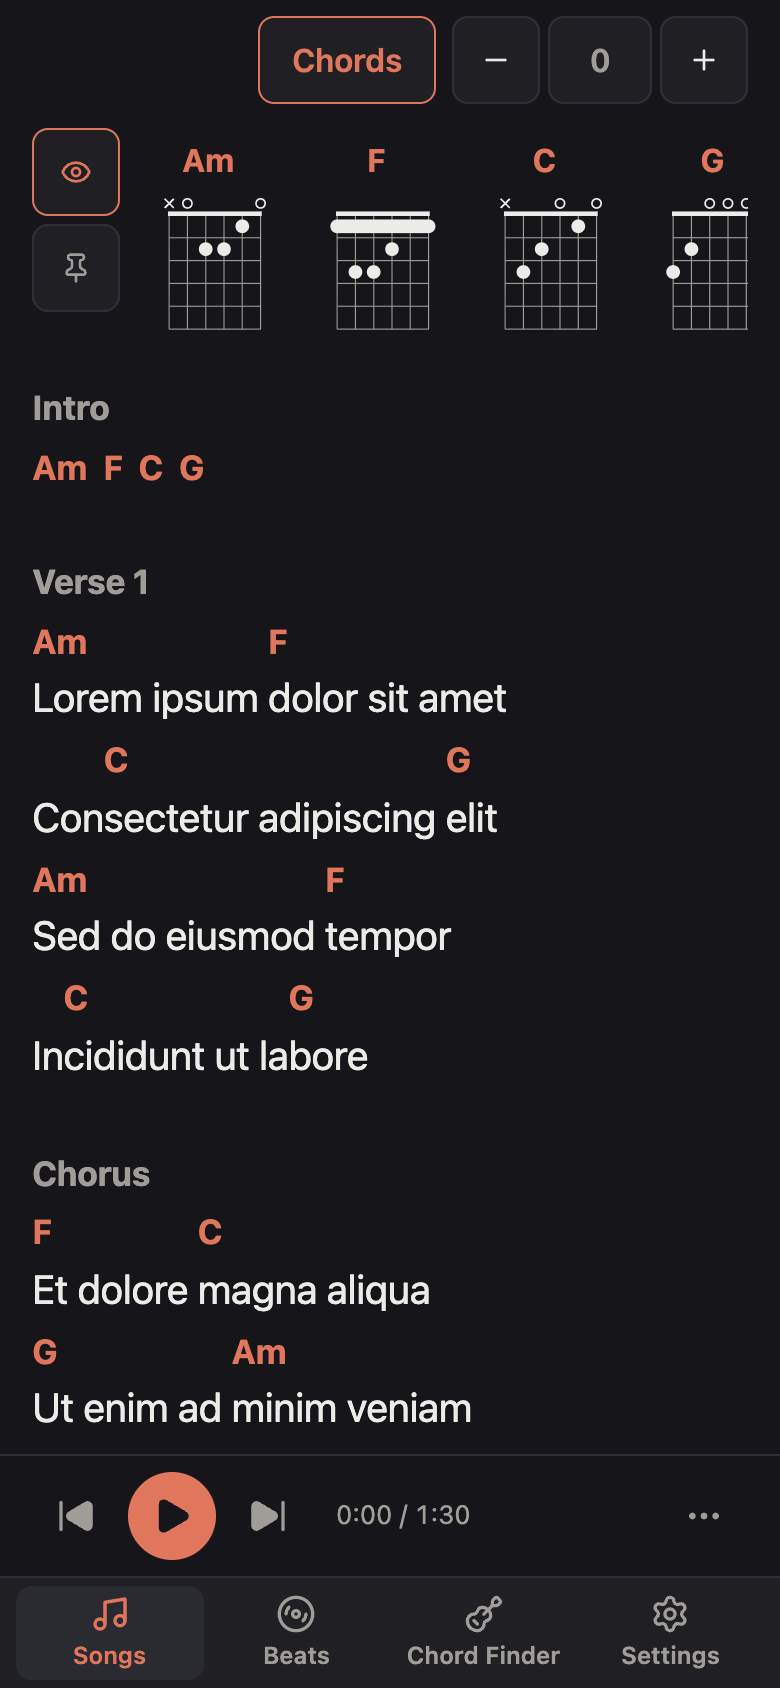
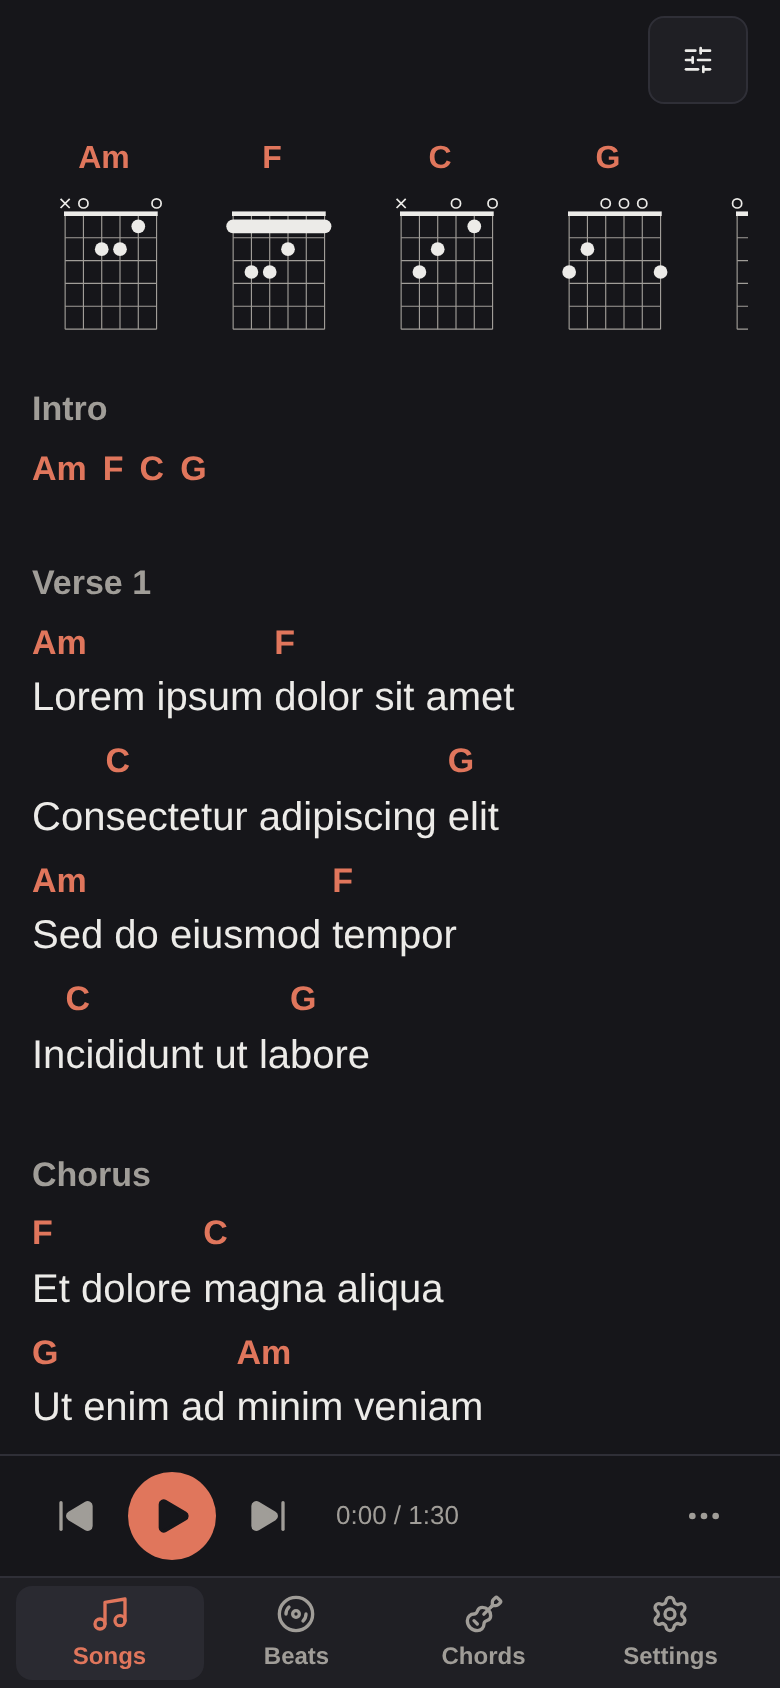
Retake the phone, Read mode and Sync mode screenshots in the current UI, and show the phone as Read mode in the tour

diff --git a/site/features.md b/site/features.md
@@ -18,11 +18,9 @@ Write lyrics the way you would in a notebook, with the chords right where you pl
 8. **Line timings**: when each line starts in the song, set as you [sync](#sync). They appear once the [timeline](#timeline) has some audio on it: a beat, a take or another sound.
 9. **Scrapbook**: sections that aren't in the song: leftovers and ideas to come back to.
 
-Every song is in one list, with its status, key and tempo at a glance. And you can write on your phone too, in a layout made for it.
+And this is Read mode, here on a phone: the chords over the words, and how to play each one at the top. The button at the top right sets the text size, hides or transposes the chords, and shows or pins the chord shapes.
 
-<img src="@screenshots/song-list.png" alt="The Song list on desktop, with each Song's Status, key and BPM">
-
-<img class="phone" src="@screenshots/phone-lyric-sheet.png" alt="A Song's Lyric Sheet on a phone">
+<img class="phone" src="@screenshots/phone-lyric-sheet.png" alt="A song in Read mode on a phone, with the chord shapes at the top">
 
 ## Listen
 

diff --git a/docs/screenshots/README.md b/docs/screenshots/README.md
@@ -12,7 +12,7 @@ The screenshots in the README and on the docs site, `site/`, taken in the dark t
 | `recording-settings-labelled.png` | Recording settings hearing Chromium's fake microphone, numbered 4 to 6: Input, the level hint and Calibrate |
 | `beat-library-labelled.png` | The Beat Library, numbered: Add from link, the search, the Beat's title, its producer, the Song using it and Edit |
 | `backups-labelled.png` | Settings' Backups holding the demo Backup, numbered: Upload, New Backup, the Backup and Restore |
-| `phone-lyric-sheet.png` | The hero Song's Lyric Sheet on a phone                         |
+| `phone-lyric-sheet.png` | The hero Song in Read mode on a phone                          |
 | `read-mode.png`         | The hero Song in Read mode, with the Line playing highlighted  |
 | `sync-mode.webp`        | Sync mode cueing the Bridge's Lines, animated                  |
 

diff --git a/README.md b/README.md
@@ -31,7 +31,7 @@ It's built for one songwriter, and runs on your own machine or homelab. There ar
 
 ![A Song in Read mode, with the Line playing highlighted](docs/screenshots/read-mode.png)
 
-<img src="docs/screenshots/phone-lyric-sheet.png" alt="A Song's Lyric Sheet on a phone" width="300">
+<img src="docs/screenshots/phone-lyric-sheet.png" alt="A Song in Read mode on a phone" width="300">
 
 </details>
 
